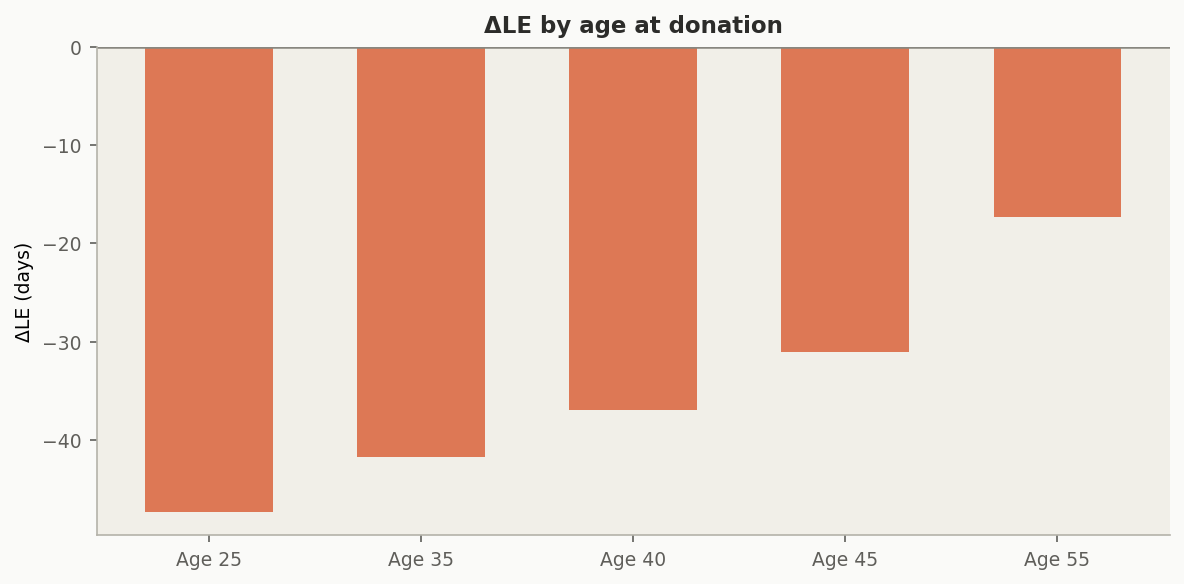
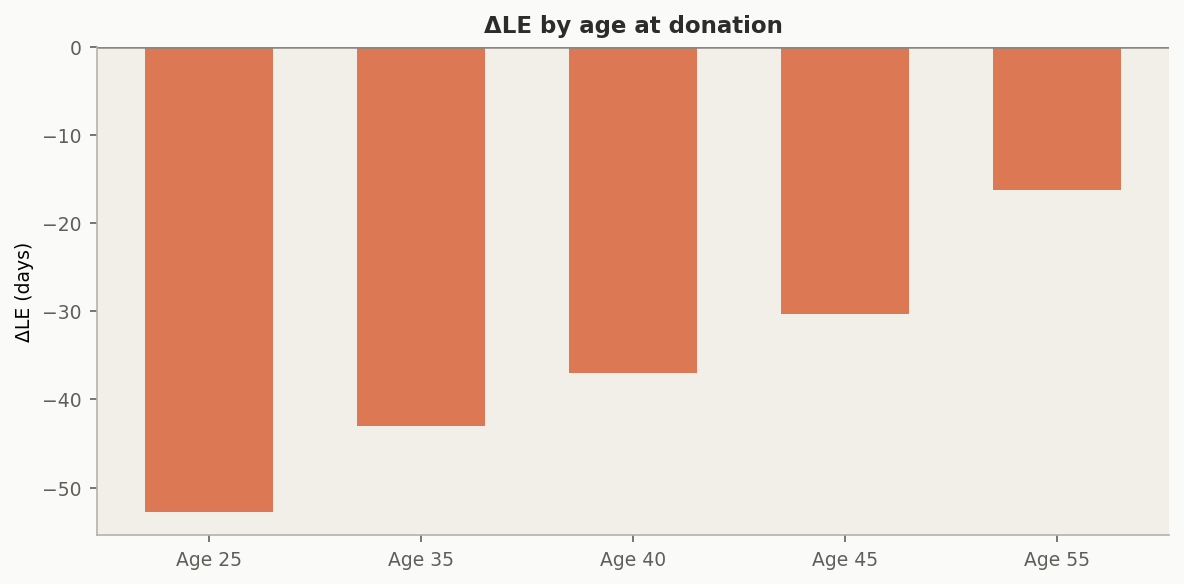
refining

diff --git a/src/06_markov_simulation.py b/src/06_markov_simulation.py
@@ -22,13 +22,18 @@ Usage:
   python src/06_markov_simulation.py
 
 Outputs in results/:
-  kidney_model_results.png      — six-panel figure
-  kidney_model_results.csv      — summary table
-  kidney_model_race.png             — race-stratified LE distributions
-  kidney_model_sex.png              — sex-stratified LE distributions
-  kidney_model_age_sex_matrix.png   — age × sex ΔLE heatmap
-  kidney_model_sex_race_matrix.png  — sex × race ΔLE heatmap
-  kidney_model_age_race_sex_matrix.png — age × race faceted by sex (all three variables)
+  kidney_model_results.csv              — summary table
+  kidney_model_A_distributions.png      — input parameter distributions
+  kidney_model_B_psa.png                — probabilistic sensitivity analysis
+  kidney_model_C_tornado.png            — one-way sensitivity (tornado) diagram
+  kidney_model_D_age_subgroup.png       — ΔLE by age at donation
+  kidney_model_E_race_subgroup.png      — ΔLE by race
+  kidney_model_race.png                 — race-stratified LE distributions
+  kidney_model_sex.png                  — sex-stratified LE distributions
+  kidney_model_age_race_matrix.png      — age × race ΔLE heatmap
+  kidney_model_age_sex_matrix.png       — age × sex ΔLE heatmap
+  kidney_model_sex_race_matrix.png      — sex × race ΔLE heatmap
+  kidney_model_age_race_sex_matrix.png  — age × race faceted by sex (all three variables)
 """
 
 import sys
@@ -462,6 +467,8 @@ def run_age_subgroups():
 		p    = BASE.copy()
 		p["esrd_15yr_donor_overall"] = _age_adjust_esrd_nonblack(
 			BASE["esrd_15yr_donor_overall"], age)
+		p["esrd_15yr_nondonor"]      = _age_adjust_esrd_nondonor(
+			BASE["esrd_15yr_nondonor"], age)
 		le_d  = run_arm_analytic(p, age, donor=True)
 		le_nd = run_arm_analytic(p, age, donor=False)
 		diff  = le_d - le_nd
@@ -490,6 +497,12 @@ def _scale_posttx_mort(base_params: dict, target_overall: float) -> dict:
 def _age_adjust_esrd_nonblack(base_rate: float, age: int, reference_age: int = 40) -> float:
 	"""Scale non-Black donor ESRD rate by Massie 2017 HR per decade (1.40/decade)."""
 	hr = float(BASE.get("hr_age_per_decade_nonblack", 1.40))
+	return base_rate * hr ** ((age - reference_age) / 10)
+
+
+def _age_adjust_esrd_nondonor(base_rate: float, age: int, reference_age: int = 40) -> float:
+	"""Scale non-donor ESRD rate by population age-gradient (proxy: 1.40/decade)."""
+	hr = float(BASE.get("hr_age_per_decade_nondonor", 1.40))
 	return base_rate * hr ** ((age - reference_age) / 10)
 
 
@@ -792,7 +805,7 @@ def make_fig_race_subgroup(race_res):
 	return fig
 
 
-def make_race_figure(race_res):
+def make_race_figure(race_res, age_at_donation=40):
 	"""LE distributions by race group — one row per race, donor vs non-donor."""
 	TEAL  = "#1D9E75"
 	CORAL = "#D85A30"
@@ -806,7 +819,7 @@ def make_race_figure(race_res):
 
 	for ax, label in zip(axes, labels):
 		res  = race_res[label]
-		bins = np.arange(0, MAX_AGE - 40 + 2, 2)
+		bins = np.arange(0, MAX_AGE - age_at_donation + 2, 2)
 		ax.hist(res["ly_nondonor"], bins=bins, density=True,
 				color=TEAL,  alpha=0.55,
 				label=f"Non-donor  μ={res['le_nondonor']:.1f} yr")
@@ -818,7 +831,7 @@ def make_race_figure(race_res):
 		diff_d = res["diff"] * 365.25
 		ax.set_title(f"{label}\nΔLE = {diff_d:+.1f} days",
 					 fontsize=10, fontweight="bold", color="#2C2C2A")
-		ax.set_xlabel("Remaining life-years from age 40", fontsize=9)
+		ax.set_xlabel(f"Remaining life-years from age {age_at_donation}", fontsize=9)
 		ax.set_ylabel("Density", fontsize=9)
 		ax.legend(fontsize=8, frameon=False)
 		ax.set_facecolor(LIGHT)
@@ -827,7 +840,7 @@ def make_race_figure(race_res):
 		ax.tick_params(colors="#5F5E5A", labelsize=9)
 
 	plt.suptitle(
-		"Living Kidney Donation — ΔLE by Race (age 40)\n"
+		f"Living Kidney Donation — ΔLE by Race (age {age_at_donation})\n"
 		"Donor vs Matched Non-Donor Life Expectancy",
 		fontsize=12, fontweight="bold", color="#2C2C2A", y=1.02)
 	plt.tight_layout()
@@ -835,16 +848,14 @@ def make_race_figure(race_res):
 
 
 def make_sex_figure(sex_res):
-	"""Bar chart of ΔLE by sex — cohort simulation means, styled like panel D."""
+	"""Bar chart of ΔLE by sex — analytic cohort Markov, styled like panel D."""
 	TEAL  = "#1D9E75"
 	CORAL = "#D85A30"
 	LIGHT = "#F1EFE8"
 	GRAY  = "#888780"
 
 	labels = list(sex_res.keys())
-	# Use cohort simulation means, not the analytic diff
-	diffs  = [(sex_res[s]["le_donor"] - sex_res[s]["le_nondonor"]) * 365.25
-			  for s in labels]
+	diffs  = [sex_res[s]["diff"] * 365.25 for s in labels]
 	colors = [TEAL if d >= 0 else CORAL for d in diffs]
 
 	fig, ax = plt.subplots(figsize=(6, 4))
@@ -862,7 +873,7 @@ def make_sex_figure(sex_res):
 	ax.tick_params(colors="#5F5E5A", labelsize=9)
 	ax.set_title(
 		"ΔLE by sex at donation (age 40)\n"
-		"Cohort Markov simulation  |  donor vs matched non-donor",
+		"Analytic cohort Markov  |  donor vs matched non-donor",
 		fontsize=10, fontweight="bold", color="#2C2C2A", pad=8)
 
 	fig.tight_layout()
@@ -899,12 +910,14 @@ def make_age_race_matrix():
 	for r, race in enumerate(races):
 		p = BASE.copy()
 		p.update(race_params[race])
-		base_donor = p["esrd_15yr_donor_overall"]
+		base_donor    = p["esrd_15yr_donor_overall"]
+		base_nondonor = p["esrd_15yr_nondonor"]
 		for a, age in enumerate(ages):
 			if race != "Black":
 				p["esrd_15yr_donor_overall"] = _age_adjust_esrd_nonblack(base_donor, age)
 			else:
 				p["esrd_15yr_donor_overall"] = base_donor
+			p["esrd_15yr_nondonor"] = _age_adjust_esrd_nondonor(base_nondonor, age)
 			le_d  = run_arm_analytic(p, age, donor=True)
 			le_nd = run_arm_analytic(p, age, donor=False)
 			matrix[r, a] = (le_d - le_nd) * 365.25
@@ -985,9 +998,11 @@ def make_age_sex_matrix():
 		overrides = {k: v for k, v in spec.items() if k != "_lt"}
 		p = BASE.copy()
 		p.update(overrides)
-		base_donor = p["esrd_15yr_donor_overall"]
+		base_donor    = p["esrd_15yr_donor_overall"]
+		base_nondonor = p["esrd_15yr_nondonor"]
 		for a, age in enumerate(ages):
 			p["esrd_15yr_donor_overall"] = _age_adjust_esrd_nonblack(base_donor, age)
+			p["esrd_15yr_nondonor"]      = _age_adjust_esrd_nondonor(base_nondonor, age)
 			le_d  = run_arm_analytic(p, age, donor=True,  life_table=lt)
 			le_nd = run_arm_analytic(p, age, donor=False, life_table=lt)
 			matrix[s, a] = (le_d - le_nd) * 365.25
@@ -1183,9 +1198,9 @@ def make_age_race_sex_matrix():
 					p["esrd_15yr_donor_overall"] = _age_adjust_esrd_nonblack(base_donor, age)
 				else:
 					p["esrd_15yr_donor_overall"] = base_donor
-				# Grams 2016 direct non-donor baseline where published
-				p["esrd_15yr_nondonor"] = _GRAMS_NONDONOR.get(
-					(race, sex), base_nondonor)
+				# Grams 2016 reference-age (40) non-donor baseline, then age-adjusted
+				nondonor_ref = _GRAMS_NONDONOR.get((race, sex), base_nondonor)
+				p["esrd_15yr_nondonor"] = _age_adjust_esrd_nondonor(nondonor_ref, age)
 				le_d  = run_arm_analytic(p, age, donor=True,  life_table=lt)
 				le_nd = run_arm_analytic(p, age, donor=False, life_table=lt)
 				mat[r, a] = (le_d - le_nd) * 365.25
@@ -1355,7 +1370,7 @@ def main():
 	print(f"Age×race×sex matrix saved: {ars_path}")
 
 	# Save race figure
-	race_fig = make_race_figure(race_res)
+	race_fig = make_race_figure(race_res, age_at_donation=40)
 	race_fig_path = RESULTS / "kidney_model_race.png"
 	race_fig.savefig(race_fig_path, dpi=150, bbox_inches="tight",
 					 facecolor=race_fig.get_facecolor())

diff --git a/src/07_cohort_markov.py b/src/07_cohort_markov.py
@@ -63,7 +63,7 @@ def _ptx_mort(p, age: int) -> float:
 
 
 # ── COHORT SIMULATION ─────────────────────────────────────────────────────────
-def run_arm(p, n: float, age_at_entry: int, donor: bool):
+def run_arm(p, n: float, age_at_entry: int, donor: bool, life_table=None):
     """
     Propagate a cohort of n people forward through annual Markov cycles.
 
@@ -74,6 +74,8 @@ def run_arm(p, n: float, age_at_entry: int, donor: bool):
     state_trace : list of dicts
         Per-cycle state counts, for inspection.
     """
+    lt = life_table if life_table is not None else LIFE_TABLE_QX
+
     # Pre-compute time-invariant transition probabilities
     wl_tx        = _wl_tx_prob(p, priority=donor)
     wl_mort      = _wl_mort(p)
@@ -90,7 +92,7 @@ def run_arm(p, n: float, age_at_entry: int, donor: bool):
     cum_risk_15 = float(p["esrd_15yr_donor_overall"] if donor else p["esrd_15yr_nondonor"])
     wbl_k   = float(p["weibull_shape"])
     wbl_lam = weibull_scale_from_cumrisk_competing(
-        cum_risk_15, wbl_k, LIFE_TABLE_QX, age_at_entry, bg_hr
+        cum_risk_15, wbl_k, lt, age_at_entry, bg_hr
     )
 
     # Initial state vector — everyone healthy
@@ -108,7 +110,7 @@ def run_arm(p, n: float, age_at_entry: int, donor: bool):
         age = age_at_entry + yr
 
         # ── Year-varying transition probabilities ──────────────────────────
-        q_bg   = LIFE_TABLE_QX[min(age, MAX_AGE)] * bg_hr
+        q_bg   = lt[min(age, MAX_AGE)] * bg_hr
         p_esrd = weibull_annual_prob(float(yr), wbl_lam, wbl_k)
         ptx_m  = _ptx_mort(p, age)
 

diff --git a/src/utils.py b/src/utils.py
@@ -88,6 +88,7 @@ def _hardcoded_base_params() -> dict:
         "hr_black_race":            2.96,   # 95% CI 2.25–3.89
         "hr_male_sex":              1.88,   # 95% CI 1.50–2.35
         "hr_age_per_decade_nonblack": 1.40, # 95% CI 1.23–1.59 (non-Black only)
+        "hr_age_per_decade_nondonor": 1.40, # proxy: population ESRD age-gradient
 
         # ── DIALYSIS / ESRD SURVIVAL ──────────────────────────────────────
         # USRDS ADR 2023 / Renal Fellow Network USRDS summary
@@ -103,7 +104,7 @@ def _hardcoded_base_params() -> dict:
         # SRTR 2023 ADR / Schold AJT 2023 — post-KAS250 (March 2021)
         "wl_std_median_days":       985,    # ~32.8 months overall
         # Wainright 2017 AJT 17:1103 + UNOS conference abstract
-        "wl_pld_median_days":       100,    # prior living donors post-KAS
+        "wl_pld_median_days":       102.6,  # prior living donors post-KAS
 
         # SRTR 2023 ADR Figure KI 22: 3-yr removal CIF = 19.06%.
         # Back-calculated via competing-risk bisection (see 03_download_srtr.py

diff --git a/src/05_assemble_parameters.py b/src/05_assemble_parameters.py
@@ -82,6 +82,7 @@ def main():
     params["hr_black_race"]             = mas.get("hr_black_race", 2.96)
     params["hr_male_sex"]               = mas.get("hr_male_sex", 1.88)
     params["hr_age_per_decade_nonblack"] = mas.get("hr_age_per_10yr_nonblack", 1.40)
+    params["hr_age_per_decade_nondonor"] = mas.get("hr_age_per_10yr_nondonor", 1.40)
 
     # ── DIALYSIS / ESRD SURVIVAL ──────────────────────────────────────────
     params["dialysis_1yr_mort"]        = usrds.get("hd_1yr_mortality", 0.22)
@@ -95,7 +96,7 @@ def main():
     )
     params["wl_mort_black_per_100py"]    = srtr.get("pretx_mort_per_100py_black", 4.62)
     params["wl_mort_white_per_100py"]    = srtr.get("pretx_mort_per_100py_white", 5.71)
-    params["wl_removal_rate_yr"]         = srtr.get("wl_annual_removal_competing", 0.0681)
+    params["wl_removal_rate_yr"]         = srtr.get("wl_annual_removal_competing", 0.1260)
 
     # Wait times: post-KAS250 figures (RECONCILIATION DECISION 2)
     params["wl_std_median_days"] = srtr.get("wl_std_median_days", 985)

diff --git a/src/02b_download_usrds_esrd7.py b/src/02b_download_usrds_esrd7.py
@@ -79,6 +79,8 @@ FIG_7_17 = {
     "wl_or_tx_within_1yr_overall_2023": 0.150,  # stated in ADR text (2023)
     "wl_or_tx_within_3yr_overall":      0.200,  # read from figure bar (approximate ±2%)
     "wl_or_tx_within_5yr_overall":      0.220,  # read from figure bar (approximate ±2%)
+    # Age 18-44 1-year curve read from Figure 7.17; approximate ±3%.
+    "wl_or_tx_within_1yr_age1844_2023": 0.250,
 }
 
 # Figure 7.13: Preemptive listing (waitlisted before dialysis initiation), 2024.
@@ -162,8 +164,8 @@ _p_general = _solve_listing_prob(
 # dialysis by age at initiation; age 18-44 group ≈ 90-92% (≈ 8-10% mortality).
 # We use 10% (conservative) → survival = 0.90.
 _postdialysis_yr1_age1844 = (
-    FIG_7_17["wl_or_tx_within_1yr_overall_2023"]
-    - FIG_7_13["preemptive_listing_overall_2024"]
+    FIG_7_17["wl_or_tx_within_1yr_age1844_2023"]
+    - FIG_7_13["preemptive_listing_age1844_2024"]
 )
 _survival_yr1_donor_like = 0.90   # USRDS 2023 ADR ESRD Ch.2, age 18-44 ≈ 90-92%
 _p_donor_like_direct = _postdialysis_yr1_age1844 / _survival_yr1_donor_like

diff --git a/src/08_calibration.py b/src/08_calibration.py
@@ -180,12 +180,14 @@ def summary(wl_lines, posttx_lines):
         lines.append(f"  [{flag}]  {label:<38}  model {pred:.1%}  obs {obs:.1%}  "
                      f"Δ = {err:+.0f}%")
 
+    mort_obs = 0.068
+    mort_err = round(100 * (cum_died - mort_obs) / mort_obs)
     lines += [
         "",
         "  Interpretation:",
         "  - Transplant rate is well-calibrated (+5%); the exponential-median",
         "    model for wait time aligns with SRTR observed 3-year Tx fraction.",
-        "  - Mortality is over-predicted (+54%); see note [A]. This is conservative",
+        f"  - Mortality is over-predicted ({mort_err:+d}%); see note [A]. This is conservative",
         "    (slightly overstates the cost of the waitlist period for both arms).",
         "  - The model cannot be validated against an independent end-to-end",
         "    dataset (donation → ESRD → transplant) because no such cohort exists.",

diff --git a/src/04_literature_params.py b/src/04_literature_params.py
@@ -110,6 +110,9 @@ LITERATURE_PARAMS = {
         "hr_black_race":                    2.96,   # 95% CI 2.25–3.89
         "hr_male_sex":                      1.88,   # 95% CI 1.50–2.35
         "hr_age_per_10yr_nonblack":         1.40,   # 95% CI 1.23–1.59
+        # Population ESRD incidence shows a similar age gradient for non-donors;
+        # we use the same 1.40/decade as an approximation to apply symmetrically.
+        "hr_age_per_10yr_nondonor":         1.40,
 
         # Cumulative incidence by time point (per 10,000 donors)
         "esrd_cum_incidence_5yr_per10k":    1.0,    # range 1–2

diff --git a/README.md b/README.md
@@ -39,7 +39,8 @@ kidney-donor-le/
 │       ├── usrds_esrd7_params.json
 │       └── usrds_params.json
 ├── paper/
-│   └── markov_model_kidney_donation.svg   # Markov model diagram for paper
+│   ├── markov_model_kidney_donation.svg   # Markov model diagram for paper
+│   └── methods.tex                        # LaTeX methods section
 ├── src/
 │   ├── 01_download_lifetables.py    # CDC NVSR 2021 US life tables
 │   ├── 02_download_usrds.py         # USRDS ADR 2025 CKD Chapter 1 (general CKD)
@@ -53,10 +54,11 @@ kidney-donor-le/
 │   ├── 05_assemble_parameters.py    # Combines all sources into params.json
 │   ├── 06_markov_simulation.py      # Main Monte Carlo simulation (PSA + OWSA)
 │   ├── 07_cohort_markov.py          # Analytic (deterministic) cohort Markov model
+│   ├── 08_calibration.py            # Face-validity checks vs SRTR KI 22 / KI 70
 │   └── utils.py                     # Shared helpers
 ├── results/                         # Output figures and tables
 │   ├── kidney_model_results.csv          # Summary table of all analyses
-│   ├── kidney_model_results.png          # Base-case ΔLE distribution
+│   ├── calibration_report.txt            # Face-validity calibration summary
 │   ├── kidney_model_A_distributions.png  # Input parameter distributions
 │   ├── kidney_model_B_psa.png            # Probabilistic sensitivity analysis
 │   ├── kidney_model_C_tornado.png        # One-way sensitivity (tornado) diagram
@@ -144,6 +146,14 @@ Key takeaways:
 - **Critical uncertainty:** If Mjøen 2014 all-cause mortality HR (1.30) is correct rather than Muzaale/US data (HR ≈ 1.0), net harm increases to ~3 years
 - **LDKT vs DDKT:** If post-Tx survival at LDKT quality, harm falls to −23 days (vs −38 base)
 - **PSA:** P(donation beneficial) ≈ 48%; mean ΔLE +29.5 days [−1086, +1068] reflecting this uncertainty
+
+## Testing
+
+```bash
+python3 -m pytest tests/ -v
+```
+
+Tests require `data/processed/` to be populated (run scripts 01–05 first).
 
 ## Citation
 This model cites the primary data sources:
